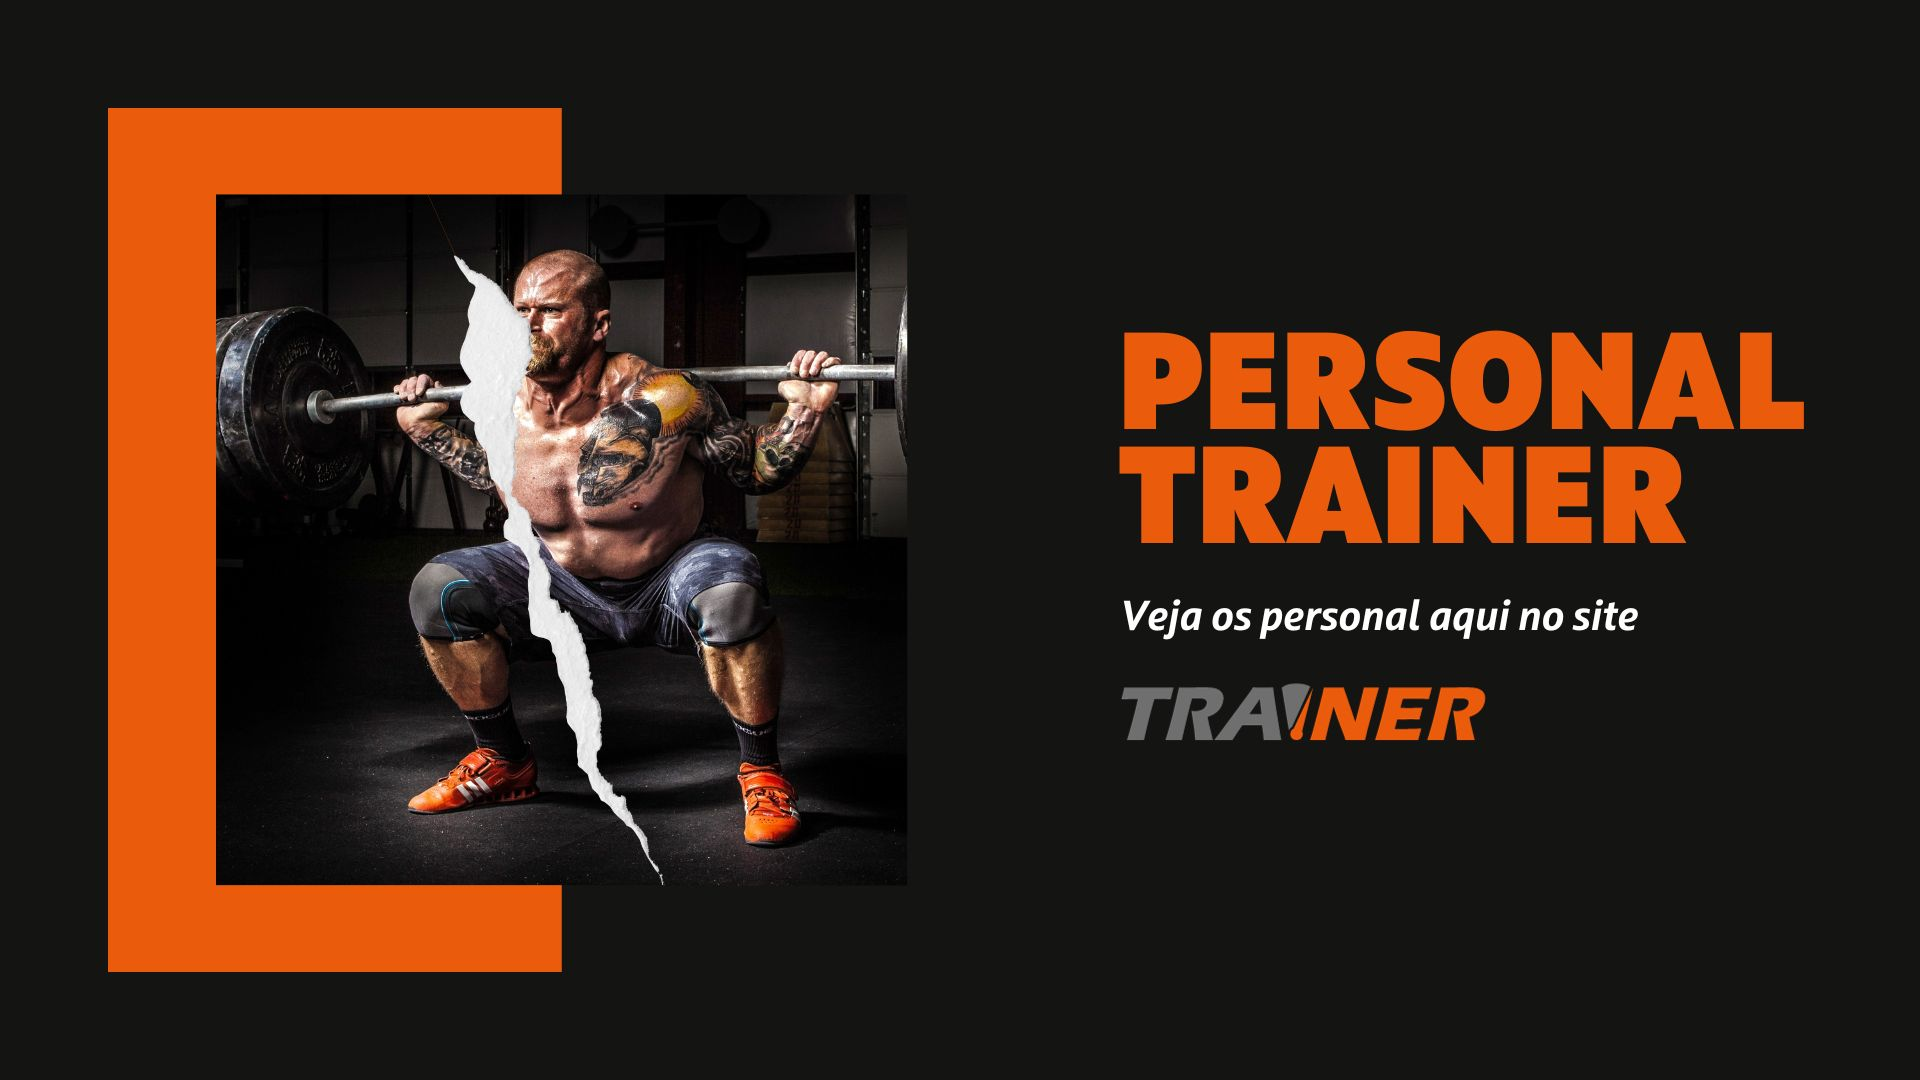
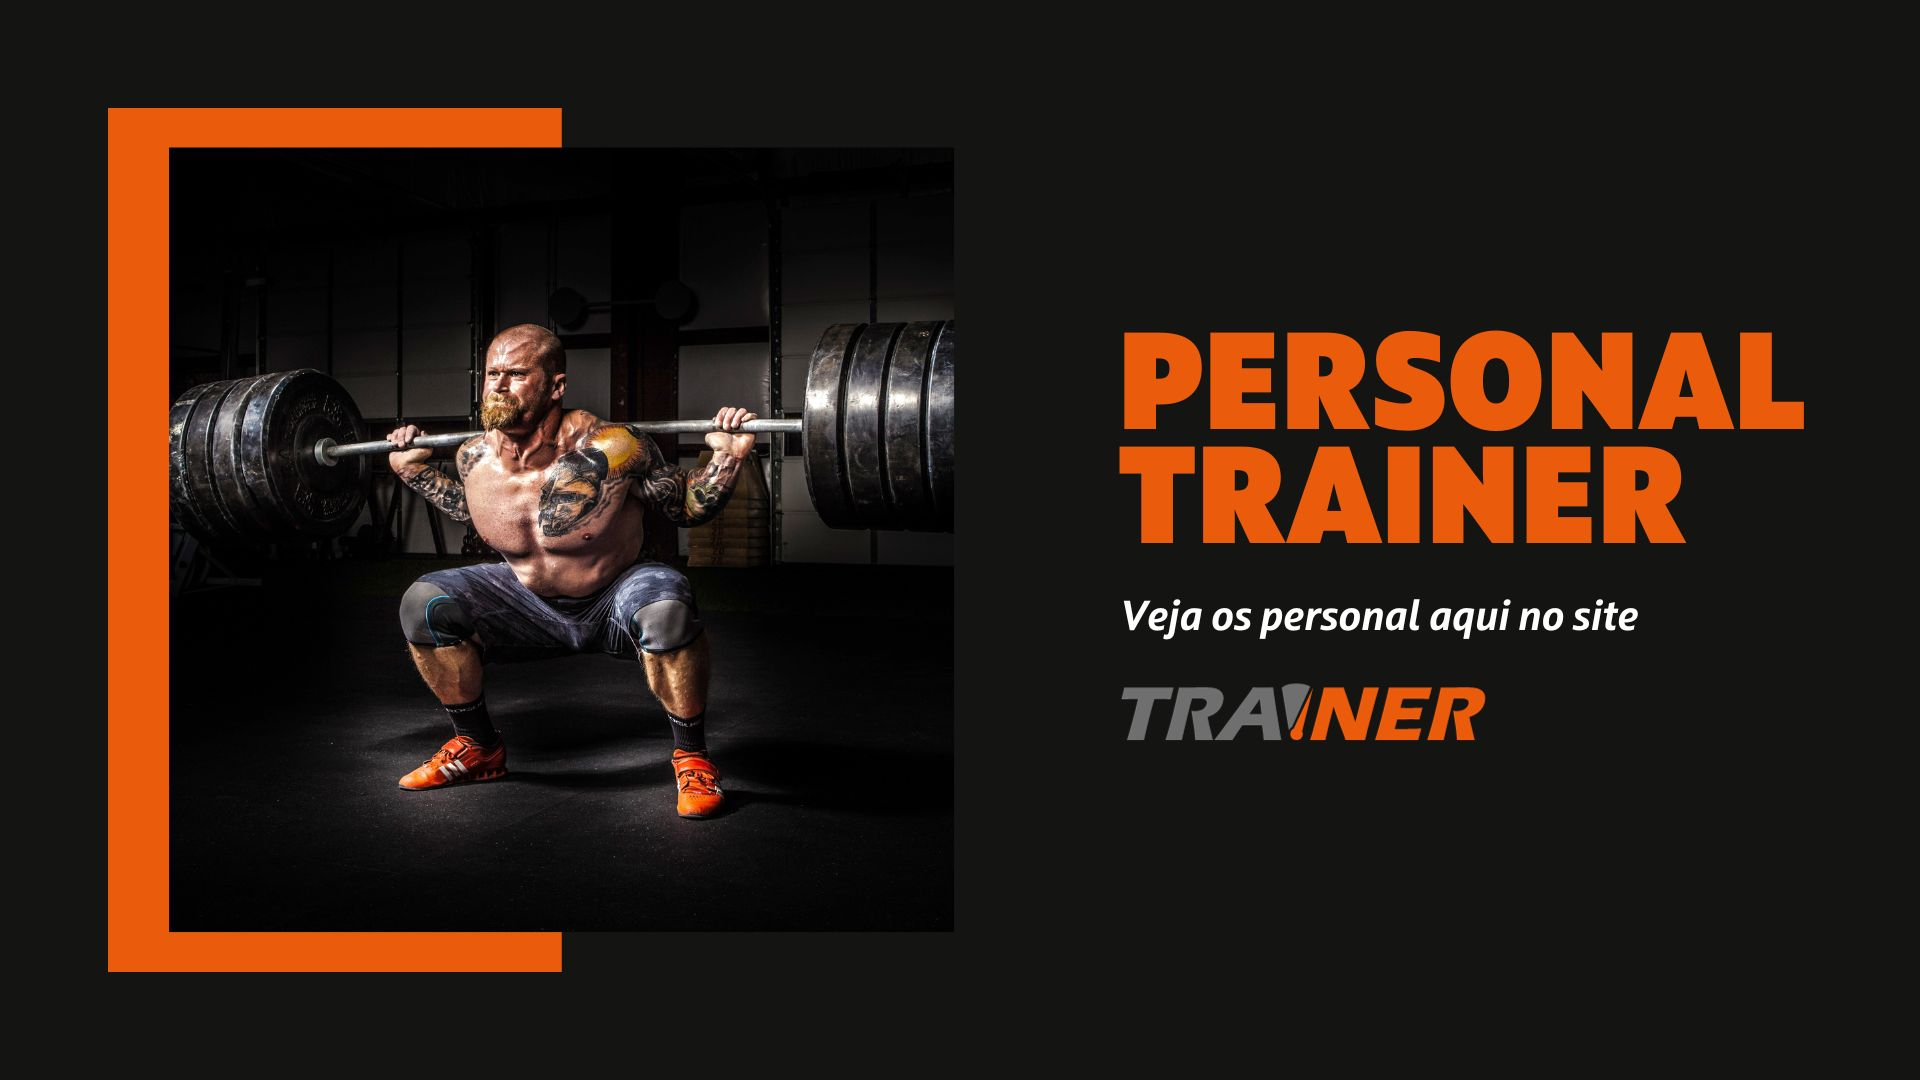
home

Changed region(s): [[0.0625, 0.1222, 0.5, 0.8861]]

diff --git a/app/public/css/home.css b/app/public/css/home.css
@@ -7,7 +7,8 @@ body{
   background-color: #f9f9f9d1;
 }
 
-header hr:last-child, #imgHome1_1, #slideImg1_1, #slideImg2_1, #slideImg3_1{
+header hr:last-child, #imgHome1_1, #slideImg1_1, #slideImg2_1, 
+#slideImg3_1, #imgHome2_1{
   display: none;
 }
 
@@ -464,7 +465,8 @@ footer hr{
   }
 
   #menuToggle span, #menuToggle input, #menuToggle hr, #institucional, 
-  #cabeçalho hr, #txtImg img:first-child, #slideImg1, #slideImg2, #slideImg3{
+  #cabeçalho hr, #txtImg img:first-child, #slideImg1, #slideImg2, #slideImg3
+  #desculpas img:first-child{
     display: none;
   }
 
@@ -494,7 +496,8 @@ footer hr{
 
   #menu{
     display: flex;
-    justify-content: space-between
+    justify-content: space-between;
+    margin-right: 50%;
   }
 
   #menu a{
@@ -563,12 +566,12 @@ footer hr{
   
   #carrossel label {
     background-color: white;
-    bottom: 10px;
+    bottom: 12px;
     cursor: pointer;
     display: block;
-    height: 10px;
+    height: 15px;
     position: absolute;
-    width: 10px;
+    width: 15px;
     z-index: 10;
     border-radius: 2px;
   }
@@ -609,7 +612,7 @@ footer hr{
     font-weight: 900;
     text-align: center;
     font-size: 150%;
-    margin-top: 70%;
+    margin-top: 65%;
     letter-spacing: -1px;
   }
   
@@ -620,7 +623,7 @@ footer hr{
   #txtImg{
     display: flex;
     align-items: center;
-    margin: 8% 0;
+    margin: 3% 2%;
   }
   
   #txtImg p{
@@ -644,8 +647,8 @@ footer hr{
     font-family: 'Open Sans', 'Inter', sans-serif;
     margin-bottom: 12%;
   }
-  #desculpas img{
-    width: 45%;
+  #desculpas #imgHome2_1{
+    width: 80%;
   }
   
   #txtDesculpas h5{
